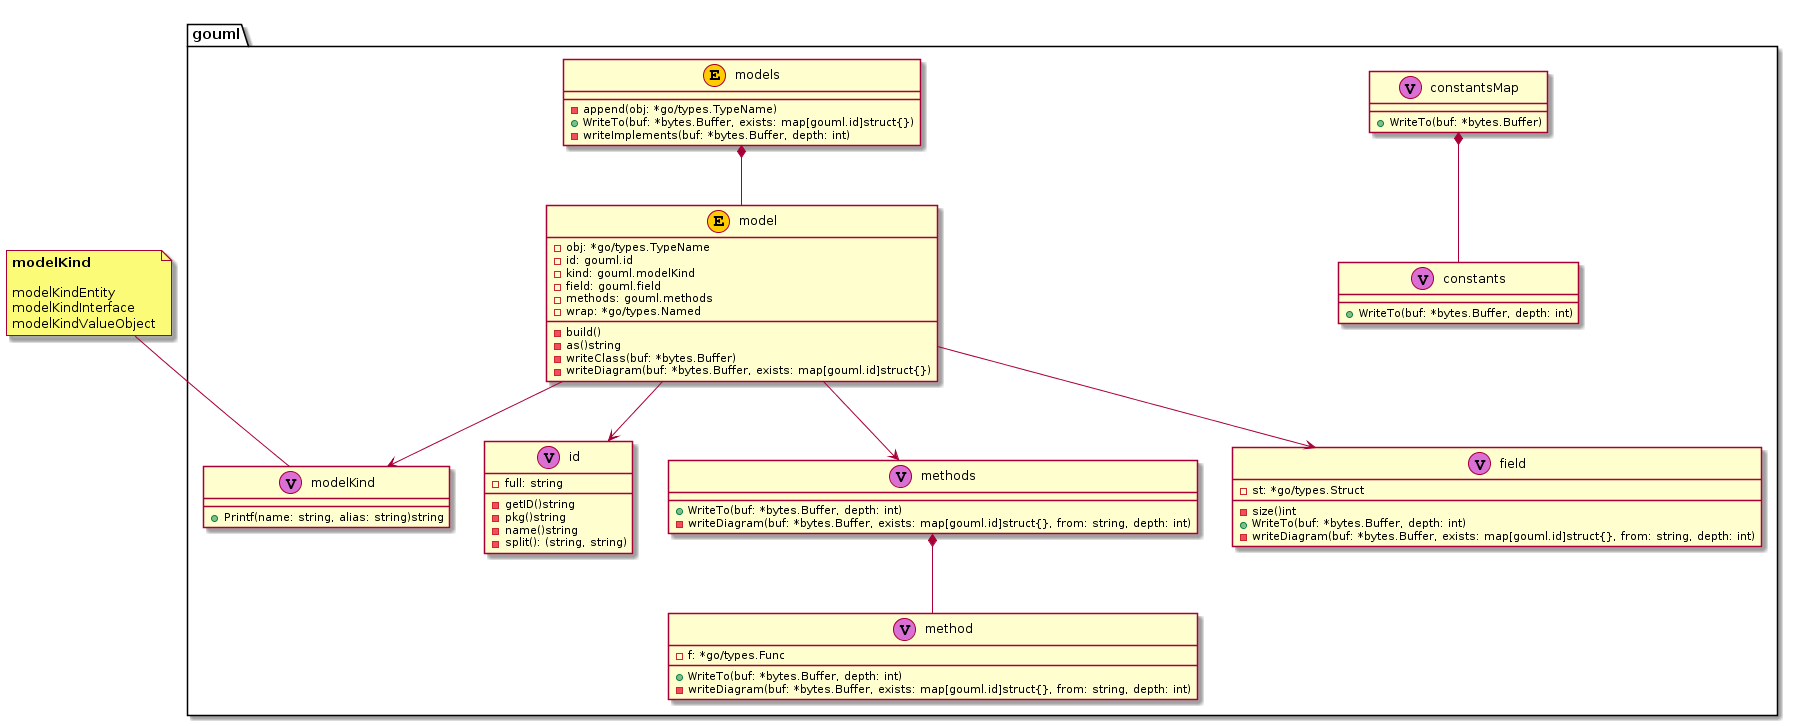
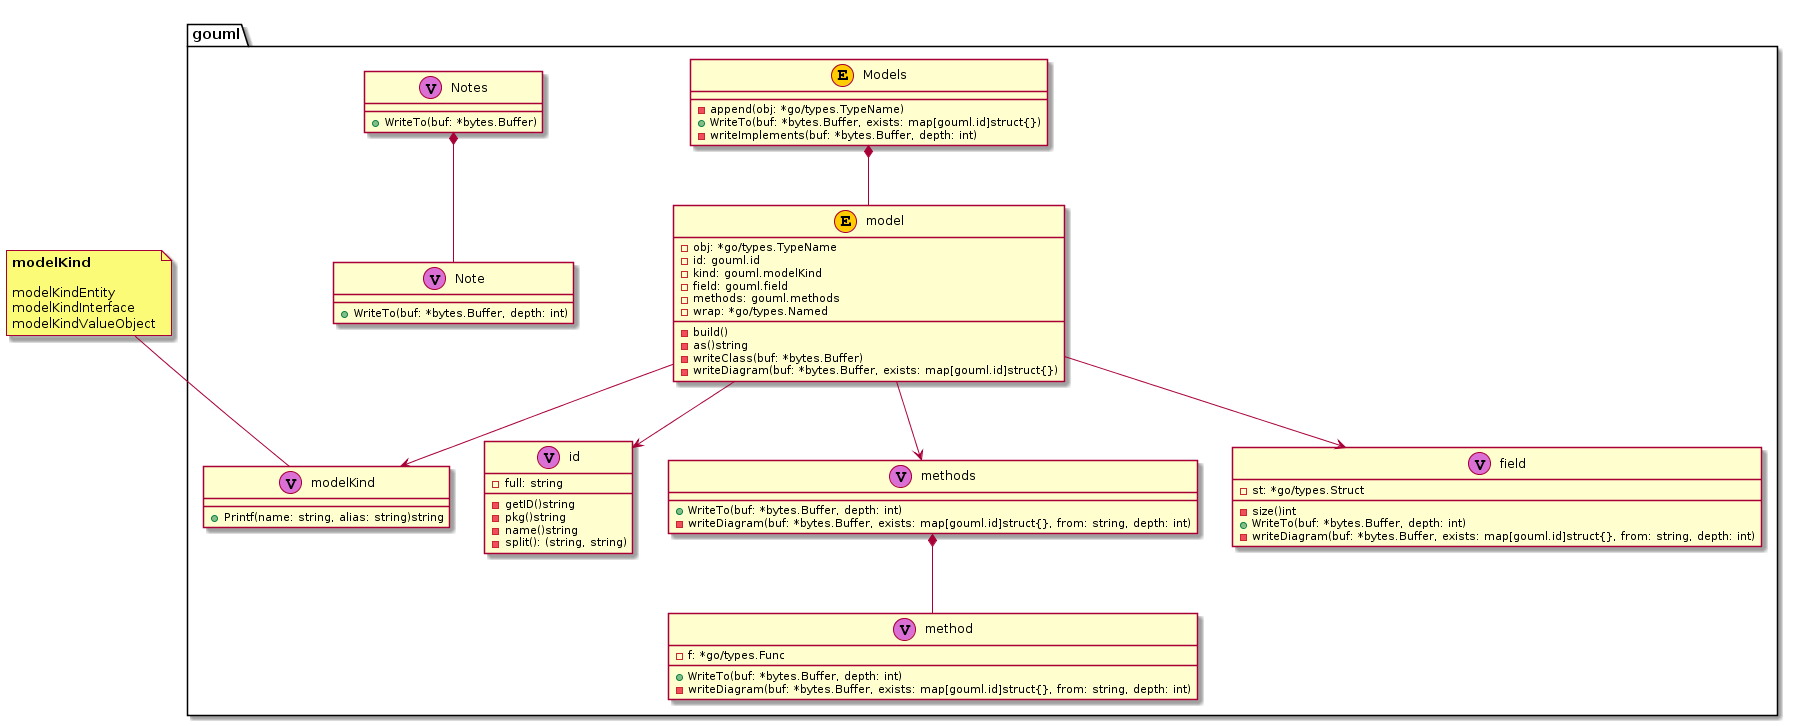
rename and refactored

diff --git a/internal/gouml/note.go b/internal/gouml/note.go
@@ -6,13 +6,16 @@ import (
 	"strings"
 )
 
-type constantsMap map[id]constants
+// Notes ...
+type Notes map[id]Note
 
-type constants []*types.Const
+// Note ...
+type Note []*types.Const
 
-func (m constantsMap) WriteTo(buf *bytes.Buffer) {
+// WriteTo ...
+func (ns Notes) WriteTo(buf *bytes.Buffer) {
 	newline(buf, 0)
-	for id, cs := range m {
+	for id, n := range ns {
 		// generate id
 		to := id.getID()
 		from := "N_" + strings.Replace(to, ".", "_", -1)
@@ -29,7 +32,7 @@ func (m constantsMap) WriteTo(buf *bytes.Buffer) {
 			buf.WriteString("</b>\n")
 
 			// write elements
-			cs.WriteTo(buf, 1)
+			n.WriteTo(buf, 1)
 		}
 		// write footer
 		newline(buf, 0)
@@ -43,9 +46,10 @@ func (m constantsMap) WriteTo(buf *bytes.Buffer) {
 	}
 }
 
-func (cs constants) WriteTo(buf *bytes.Buffer, depth int) {
-	for _, c := range cs {
+// WriteTo ...
+func (n Note) WriteTo(buf *bytes.Buffer, depth int) {
+	for _, row := range n {
 		newline(buf, depth)
-		buf.WriteString(c.Name())
+		buf.WriteString(row.Name())
 	}
 }

diff --git a/internal/gouml/model.go b/internal/gouml/model.go
@@ -5,15 +5,17 @@ import (
 	"go/types"
 )
 
-type models []model
+// Models ...
+type Models []model
 
-func (ms *models) append(obj *types.TypeName) {
+func (ms *Models) append(obj *types.TypeName) {
 	m := model{obj: obj}
 	m.build()
 	*ms = append(*ms, m)
 }
 
-func (ms models) WriteTo(buf *bytes.Buffer, exists map[id]struct{}) {
+// WriteTo ...
+func (ms Models) WriteTo(buf *bytes.Buffer, exists map[id]struct{}) {
 	for _, m := range ms {
 		m.writeClass(buf)
 		m.writeDiagram(buf, exists)
@@ -21,7 +23,7 @@ func (ms models) WriteTo(buf *bytes.Buffer, exists map[id]struct{}) {
 	ms.writeImplements(buf, 1)
 }
 
-func (ms models) writeImplements(buf *bytes.Buffer, depth int) {
+func (ms Models) writeImplements(buf *bytes.Buffer, depth int) {
 	for _, t := range ms {
 		T := t.obj.Type()
 		for _, u := range ms {

diff --git a/internal/gouml/gouml.go b/internal/gouml/gouml.go
@@ -34,8 +34,8 @@ func Gen(baseDir, out string) error {
 			}
 		}
 	}
-	models := models{}
-	cons := constantsMap{}
+	models := Models{}
+	notes := Notes{}
 	for _, obj := range objects {
 		switch obj := obj.(type) {
 
@@ -47,16 +47,14 @@ func Gen(baseDir, out string) error {
 		case *types.Const:
 			if named, _ := obj.Type().(*types.Named); named != nil {
 				id := id{full: named.String()}
-				cons[id] = append(cons[id], obj)
+				notes[id] = append(notes[id], obj)
 			}
 		}
 	}
 
 	buf := &bytes.Buffer{}
 	models.WriteTo(buf, exists)
-
-	cons.WriteTo(buf)
-
+	notes.WriteTo(buf)
 	newline(buf, 0)
 
 	// fmt.Printf(buf.String())
